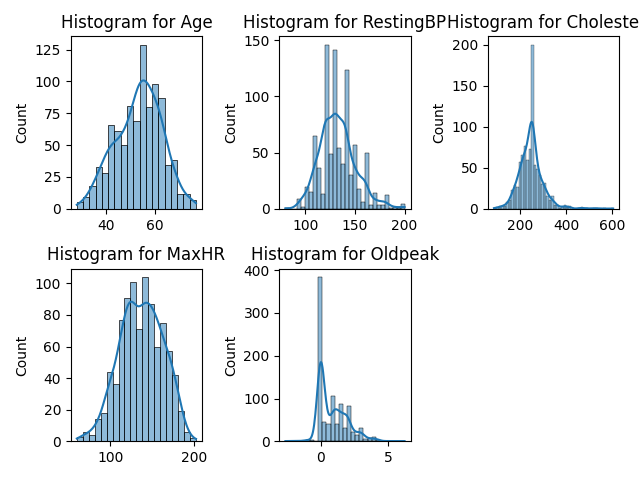
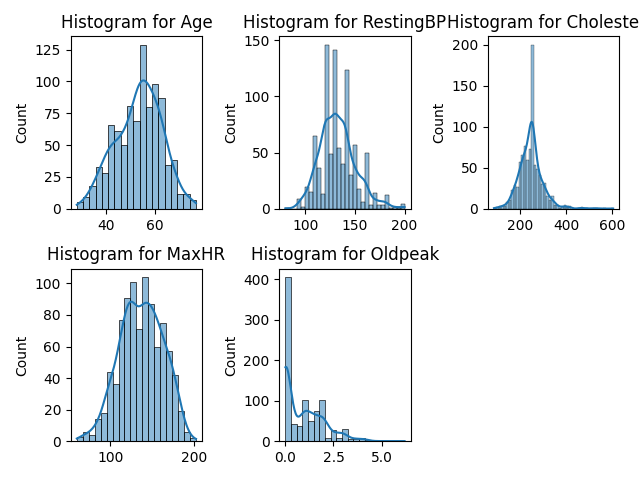
mapped cat to num

Changed region(s): [[0.375, 0.5312, 0.625, 0.9688]]

diff --git a/Project/heart_project.py b/Project/heart_project.py
@@ -5,8 +5,9 @@ import matplotlib.pyplot as plt
 from scipy.linalg import svd
 import seaborn as sns
 from scipy import stats
+from sklearn.preprocessing import LabelEncoder
 
-
+    
 # Load the Heart Disease csv data using the Pandas library
 def get_data_matrix():  #returns X, y, attributeNames
     filename = '../heart.csv'
@@ -34,7 +35,16 @@ def get_data_matrix():  #returns X, y, attributeNames
     EA_Dict = dict(zip(EA_Names,range(len(EA_Labels))))
     EA_column = np.array([EA_Dict[EA] for EA in EA_Labels])
     df['ExerciseAngina'] = EA_column
-
+    
+    #maps cat attributes to numbers
+    le = LabelEncoder()
+    df['ChestPainType'] = le.fit_transform(df['ChestPainType'])
+    df['RestingECG'] = le.fit_transform(df['RestingECG'])
+    #ST_SLope Flat = 0, Up = 1, Down = -1
+    slope_mapping = {'Down': -1, 'Flat': 0, 'Up': 1}
+    df['ST_Slope'] = df['ST_Slope'].map(slope_mapping)
+    
+    
     df_with_cvd = df[df['HeartDisease'] == 1]
     df_healthy  = df[df['HeartDisease'] == 0]
     X_with_cvd  = df_with_cvd.drop(columns=['HeartDisease']).values
@@ -46,7 +56,11 @@ def get_data_matrix():  #returns X, y, attributeNames
     X = df.drop(columns=['HeartDisease']).values #maybe we should invert these lines?
     y = df['HeartDisease'].values
     #print(f"printing y {y}")
-
+    
+    # Converting oldpeak negative values to positive
+    # Oldpeak is column 9, we convert it to positive
+    X[:,9] = np.abs(X[:,9])
+    
     # Replace 0 values in column 4 (chol) with NaN
     X[X[:, 4] == 0, 4] = np.nan
     X_with_cvd[X_with_cvd[:, 4] == 0, 4] = np.nan

diff --git a/Project/scatter_plots.py b/Project/scatter_plots.py
@@ -13,8 +13,7 @@ def get_cat_matrix(X):
     #not_cont_att = [1, 2, 5, 6, 8, 10]
     cont_att = [0,3,4,7,9]
     X_cat = np.delete(X, cont_att, axis = 1)
-    return X_cat
-
+    return X_cat    
 
 X, y, attribute_names = data.get_data_matrix()
 X_cont, cont_attributes = data.get_cont_matrix(X, attribute_names) #matrix of continuous values
